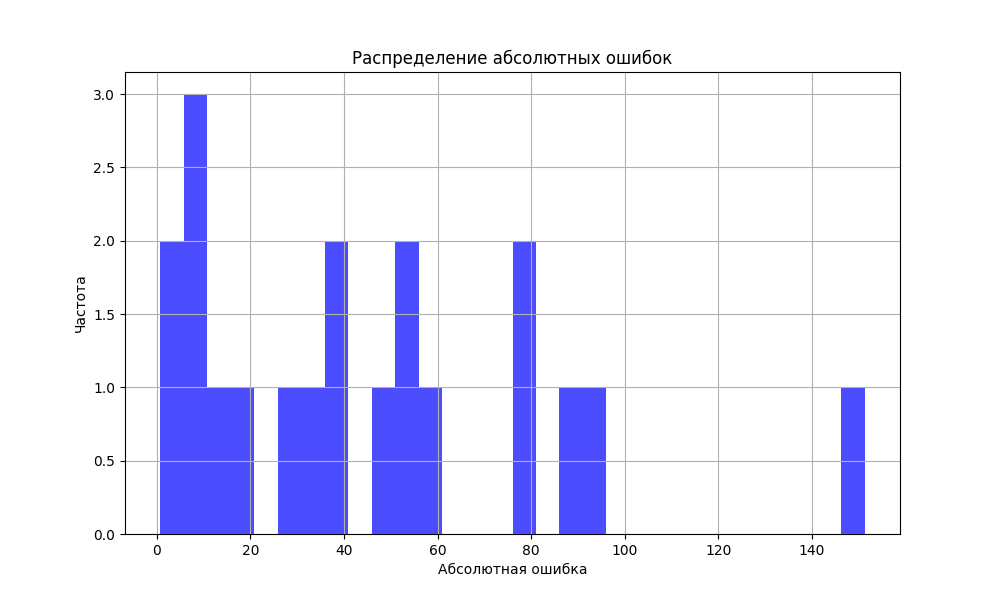
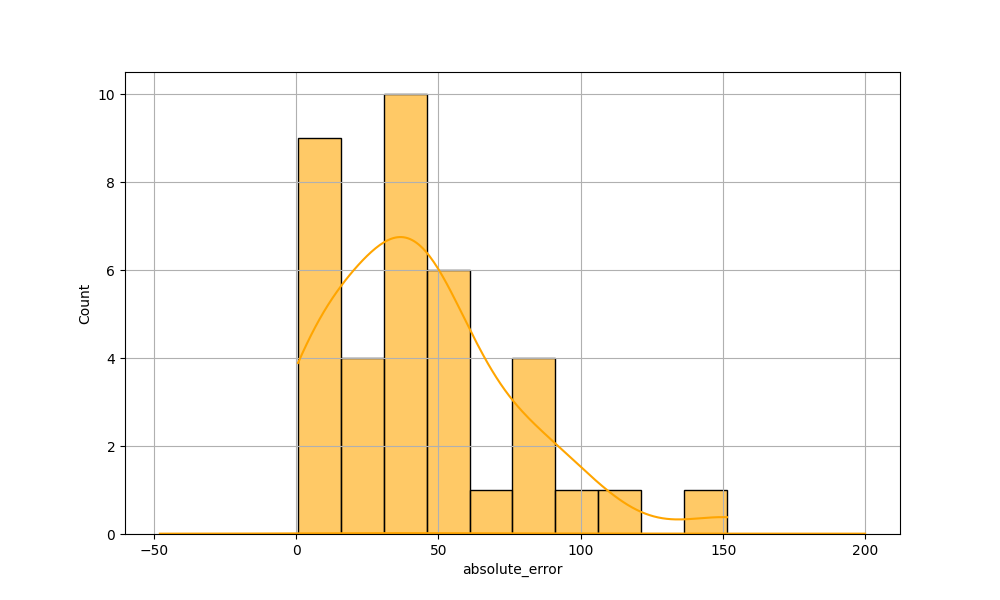
update plot.py

diff --git a/plot/src/plot.py b/plot/src/plot.py
@@ -2,23 +2,28 @@
 
 import pandas as pd
 import matplotlib.pyplot as plt
+import seaborn as sns
 import time
 import os
 
 log_file_path = './logs/metric_log.csv'
 
 while True:
-    if os .path.exists(log_file_path):
+    if os.path.exists(log_file_path):
         # Читаем данные из CSV файла
         data = pd.read_csv(log_file_path)
 
         # Проверяем, есть ли данные для построения графика
         if not data.empty:
             plt.figure(figsize=(10, 6))
-            plt.hist(data['absolute_error'], bins=30, color='blue', alpha=0.7)
-            plt.title('Распределение абсолютных ошибок')
-            plt.xlabel('Абсолютная ошибка')
-            plt.ylabel('Частота')
+
+            # Построение гистограммы и KDE
+            sns.histplot(data['absolute_error'], bins=10, color='orange', kde=True, stat="count", alpha=0.6)
+            sns.kdeplot(data['absolute_error'], color='orange', linewidth=2)
+
+            # Настройка осей и подписи
+            plt.xlabel('absolute_error')
+            plt.ylabel('Count')
             plt.grid(True)
 
             # Сохраняем график
